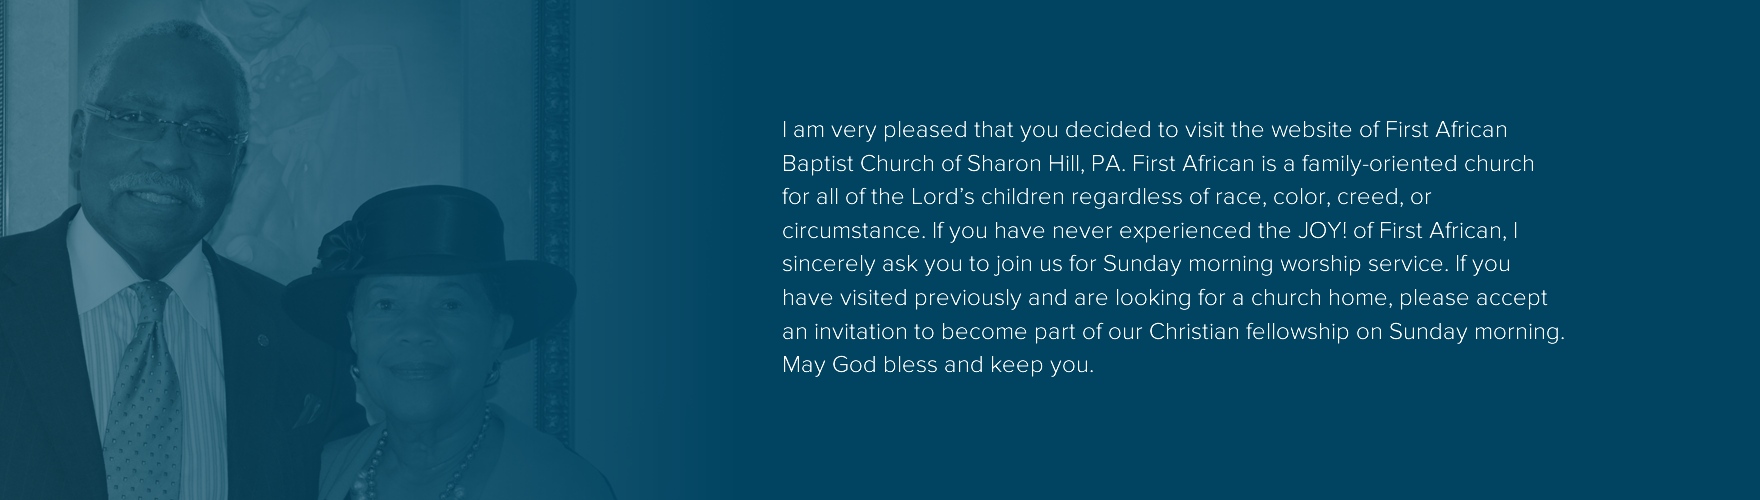
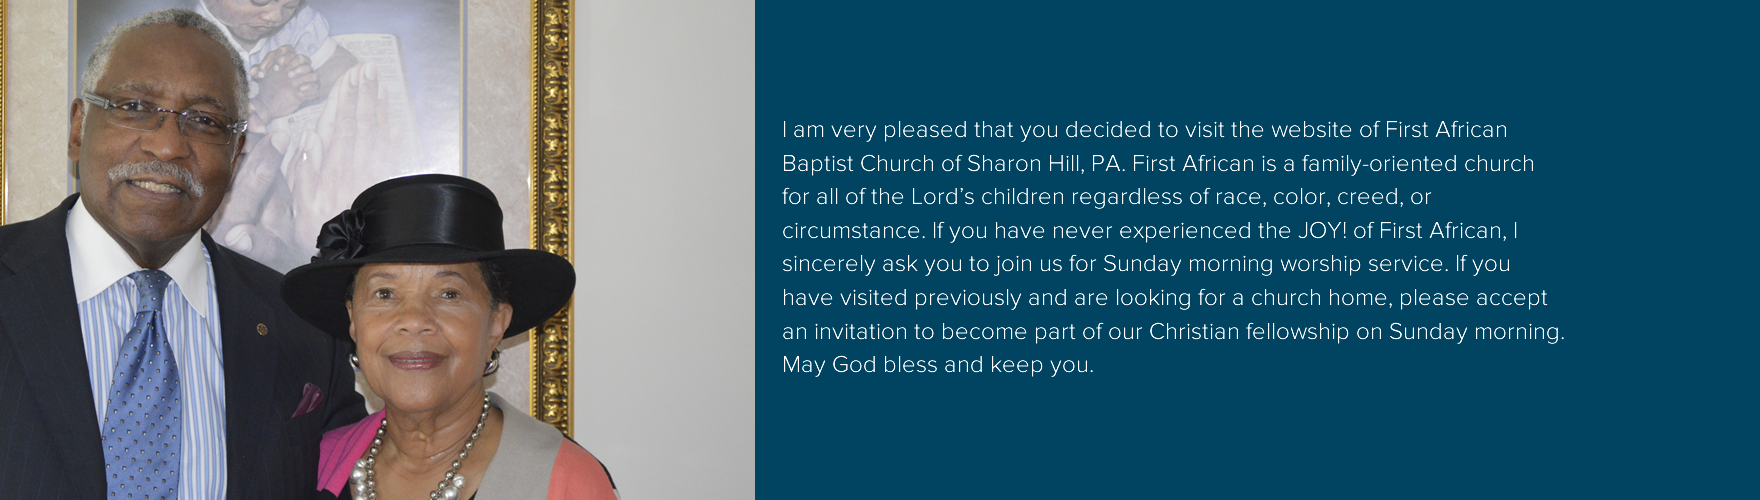
index-v3 design - 2

diff --git a/index-v3.html b/index-v3.html
@@ -13,7 +13,7 @@
 </head>
 <body>
 <div class="page-wrap">
-    <div class="nav-sidebar" style="position: fixed;background: #efefef;right: 0;top: 0; bottom: 0;width: 70px;z-index:100;box-shadow: 0 0 18px rgba(0,0,0,.35)"></div>
+    <!--<div class="nav-sidebar" style="position: fixed;background: #efefef;right: 0;top: 0; bottom: 0;width: 70px;z-index:100;box-shadow: 0 0 18px rgba(0,0,0,.35)"></div>-->
     <div class="container">
         <header class="cd-auto-hide-header">
             <div class="nav-wrap nav-wrap-primary">
@@ -73,15 +73,9 @@
                             </a>
                             <span>June 25th 8:00 - 8:30pm</span>
                         </li>
-                        <li>
-                            <a href="">
-                                Men and Women’s Fellowship Breakfast
-                            </a>
-                            <span>June 25th 8:00 - 8:30pm</span>
-                        </li>
                     </ul>
                 </article>
-                <a href="" class="button">Full Article</a>
+                <a href="" class="button">All News & Events</a>
             </div>
             <div id="head-banner">
                 <div class="banner">
@@ -107,6 +101,27 @@
                 <img class="pastor-img" src="assets/img/pastor-mrs-dent.png" alt="">
             </div>&ndash;&gt;
         </section>-->
+        <section style="padding: 6rem 0 8rem; background: #99351f;">
+            <div class="row">
+                <div class="three offset-two column" style="padding:0 3rem;">
+                    <h2>The Pastor and First Lady</h2>
+                </div>
+                <div class="two">
+                    <img id="pastor-img" src="assets/img/pastor-mrs-dent.png" alt="">
+                </div>
+                <div class="six column" style="padding:0 3rem;">
+                    <p>I am very pleased that you decided to visit the website of First African Baptist Church of
+                        Sharon Hill, PA. First African is a family-oriented church for all of the Lord’s children
+                        regardless of race, color, creed, or circumstance. If you have never experienced the JOY! of
+                        First
+                        African, I sincerely ask you to join us for Sunday morning worship service. If you have visited
+                        previously and are looking for a church home, please accept an invitation to become part of our
+                        Christian fellowship on Sunday morning.<br>
+                        <span>May God bless and keep you.</span>
+                    </p>
+                </div>
+            </div>
+        </section>
         <main role="main" class="main-content sub-nav">
             <div class="row row-520">
                 <div class="column four img-bg">

diff --git a/assets/css/kube.css b/assets/css/kube.css
@@ -513,22 +513,32 @@ section {
   height: auto;
   max-height: 450px;
   min-height: 360px;
-  min-width: 380px;
-  padding: 4rem 4rem 5rem 6rem;
+  min-width: 400px;
+  padding: 4rem 4rem 5rem 5rem;
   position: absolute;
   right: -25%;
   top: 2.75rem;
-  width: 35%;
+  width: 40%;
   z-index: 0; }
   .event-block h2 {
+    font-size: 2.5rem;
     margin-top: 0;
-    margin-bottom: 2rem; }
+    margin-bottom: 4rem;
+    position: relative; }
+    .event-block h2:after {
+      background: #C44427 !important;
+      bottom: -1.5rem;
+      content: "";
+      height: 3px;
+      left: 0;
+      position: absolute;
+      width: 3rem; }
   .event-block li {
     margin-bottom: 1rem; }
     .event-block li a {
       display: inline-block;
       font-family: "playfair_displaybold";
-      font-size: 1.15rem; }
+      font-size: 1.5rem; }
     .event-block li span {
       display: block;
       font-size: 14px; }
@@ -829,7 +839,7 @@ article.article-wrap h2:after {
 .container {
   background: #fff;
   box-sizing: border-box;
-  max-width: 120rem;
+  max-width: 132rem;
   margin-left: auto;
   margin-right: auto; }
 
@@ -1445,13 +1455,15 @@ button,
   display: inline-block;
   letter-spacing: 1px;
   min-width: 12rem;
-  padding: 5px;
+  padding: 10px 5px;
   vertical-align: middle;
   -webkit-appearance: none;
   color: rgba(255, 255, 255, 0.9);
   color: #C44427;
-  border-bottom: 1px solid #C44427;
-  border-top: 1px solid #C44427;
+  border-bottom: 1px solid #f3cdc4;
+  border-top: 1px solid #f3cdc4;
+  border-bottom: 1px solid rgba(0, 0, 0, 0.15);
+  border-top: 1px solid rgba(0, 0, 0, 0.15);
   text-transform: uppercase;
   text-align: center;
   text-align: left;
@@ -2539,7 +2551,7 @@ button:hover .menu-icon {
     height: 40px;
     left: auto;
     right: auto;
-    max-width: 120rem; } }
+    max-width: 132rem; } }
 
 .cd-auto-hide-header .logo,
 .cd-auto-hide-header .nav-trigger {
@@ -2961,22 +2973,32 @@ section {
   height: auto;
   max-height: 450px;
   min-height: 360px;
-  min-width: 380px;
-  padding: 4rem 4rem 5rem 6rem;
+  min-width: 400px;
+  padding: 4rem 4rem 5rem 5rem;
   position: absolute;
   right: -25%;
   top: 2.75rem;
-  width: 35%;
+  width: 40%;
   z-index: 0; }
   .event-block h2 {
+    font-size: 2.5rem;
     margin-top: 0;
-    margin-bottom: 2rem; }
+    margin-bottom: 4rem;
+    position: relative; }
+    .event-block h2:after {
+      background: #C44427 !important;
+      bottom: -1.5rem;
+      content: "";
+      height: 3px;
+      left: 0;
+      position: absolute;
+      width: 3rem; }
   .event-block li {
     margin-bottom: 1rem; }
     .event-block li a {
       display: inline-block;
       font-family: "playfair_displaybold";
-      font-size: 1.15rem; }
+      font-size: 1.5rem; }
     .event-block li span {
       display: block;
       font-size: 14px; }

diff --git a/assets/_scss/components/_banner.scss b/assets/_scss/components/_banner.scss
@@ -81,18 +81,30 @@ section {
   height: auto;
   max-height: 450px;
   min-height: 360px;
-  min-width: 380px;
-  padding: 4rem 4rem 5rem 6rem;
+  min-width: 400px;
+  padding: 4rem 4rem 5rem 5rem;
   position: absolute;
   //right: 2rem;
   right: -25%;
   top: 2.75rem;
-  width: 35%;
+  width: 40%;
   z-index: 0;
 
   h2 {
+    font-size: 2.5rem;
     margin-top: 0;
-    margin-bottom: 2rem;
+    margin-bottom: 4rem;
+    position: relative;
+
+    &:after {
+      background: $color-tertiary !important;
+      bottom: -1.5rem;
+      content: "";
+      height: 3px;
+      left: 0;
+      position: absolute;
+      width: 3rem;
+    }
   }
 
   li {
@@ -101,7 +113,7 @@ section {
     a {
       display: inline-block;
       font-family: $heading-font-family;
-      font-size: 1.15rem;
+      font-size: 1.5rem;
     }
     
     span {

diff --git a/assets/_scss/_variables.scss b/assets/_scss/_variables.scss
@@ -20,7 +20,7 @@ $grid-width: 1128 !default; // pixels
 $grid-gutter: $base-line !default;
 $grid-gutter-integer: ($grid-gutter / ($grid-gutter * 0 + 1)) !default;
 $grid-gap: ($grid-gutter-integer / ($grid-width / 100)) * 1% !default;
-$max-width: 120rem;
+$max-width: 132rem;
 // Z Indexes
 $z-over-content: 100 !default;
 $z-over-control: 200 !default;
@@ -126,7 +126,7 @@ $button-font-weight: 600 !default;
 $button-outline-font-weight: normal !default;
 $button-outline-border-size: 1px !default;
 $button-padding-small: 6px 20px !default;
-$button-padding: 5px !default;
+$button-padding: 10px 5px !default;
 $button-padding-big: 14px 48px !default;
 
 // Height

diff --git a/assets/_scss/components/_buttons.scss b/assets/_scss/components/_buttons.scss
@@ -20,8 +20,10 @@ button,
 	//background-color: $button-background-color;
 	//border-bottom: 1px solid rgba(0,0,0,.2);
 	//border-top: 1px solid rgba(0,0,0,.2);
-	border-bottom: 1px solid $color-tertiary;
-	border-top: 1px solid $color-tertiary;
+	border-bottom: 1px solid lighten($color-tertiary, 40%);
+	border-top: 1px solid lighten($color-tertiary, 40%);
+	border-bottom: 1px solid rgba(0,0,0,.15);
+	border-top: 1px solid rgba(0,0,0,.15);
 	text-transform: uppercase;
 	text-align: center;
 	text-align: left;
